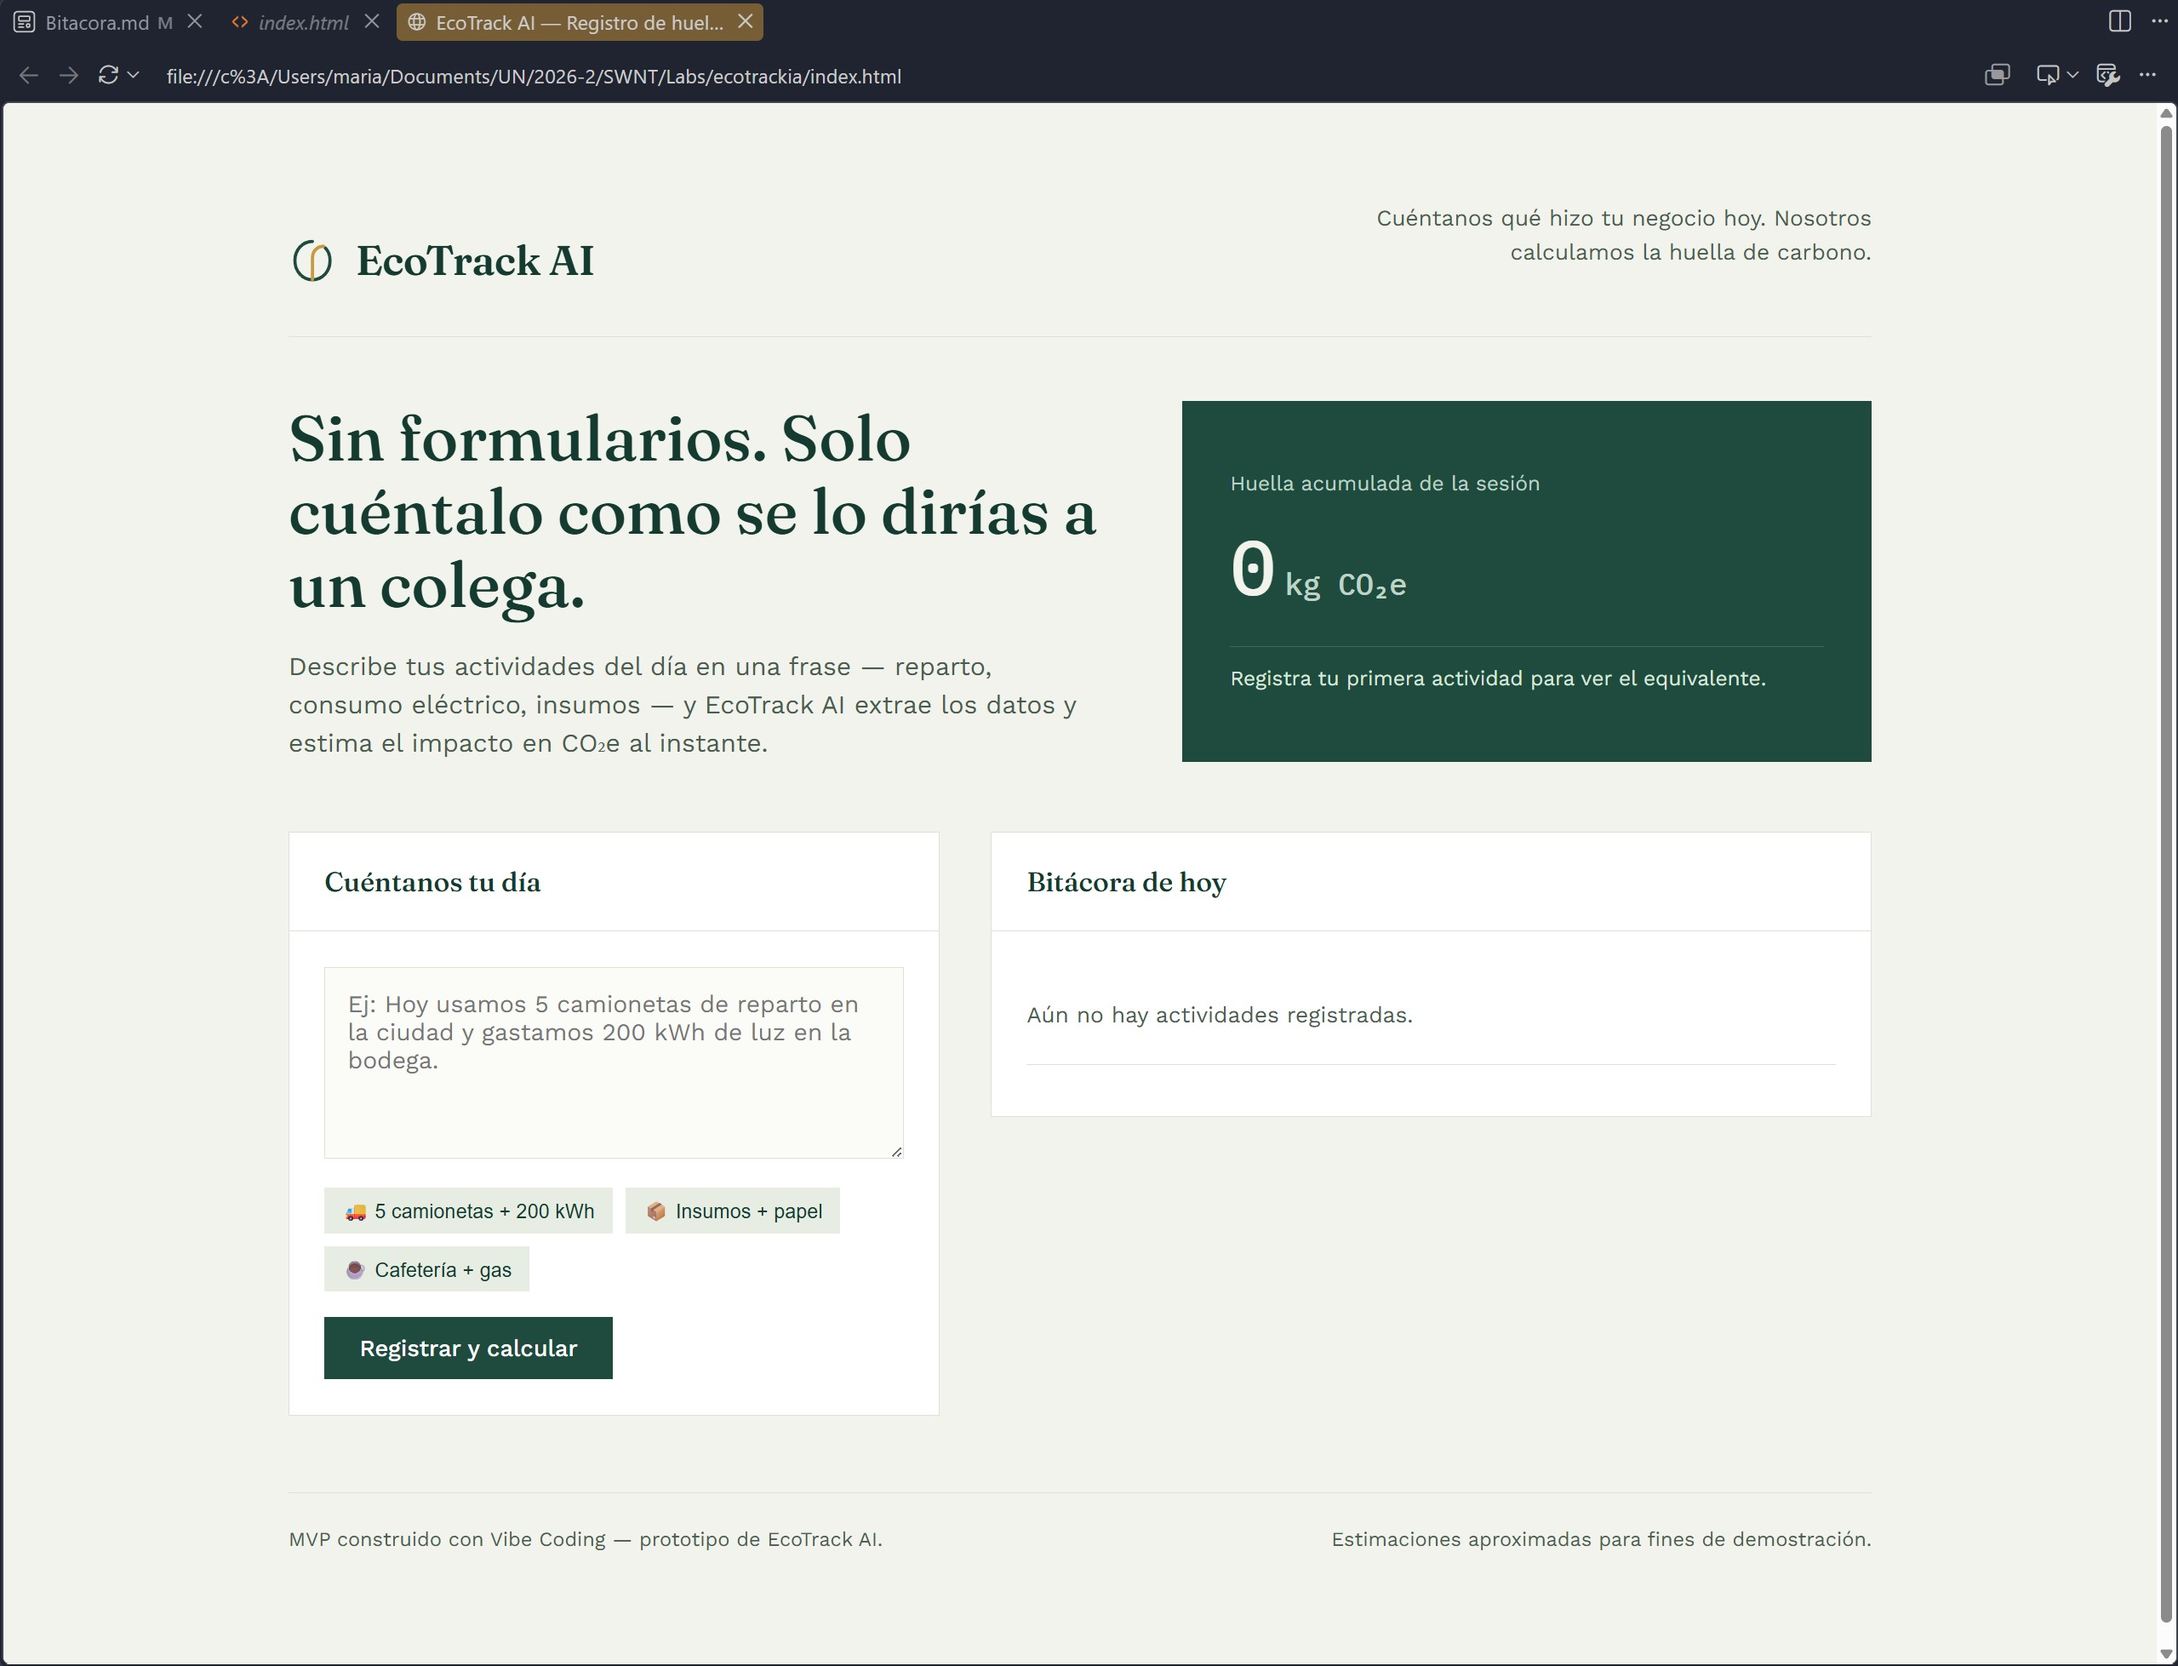
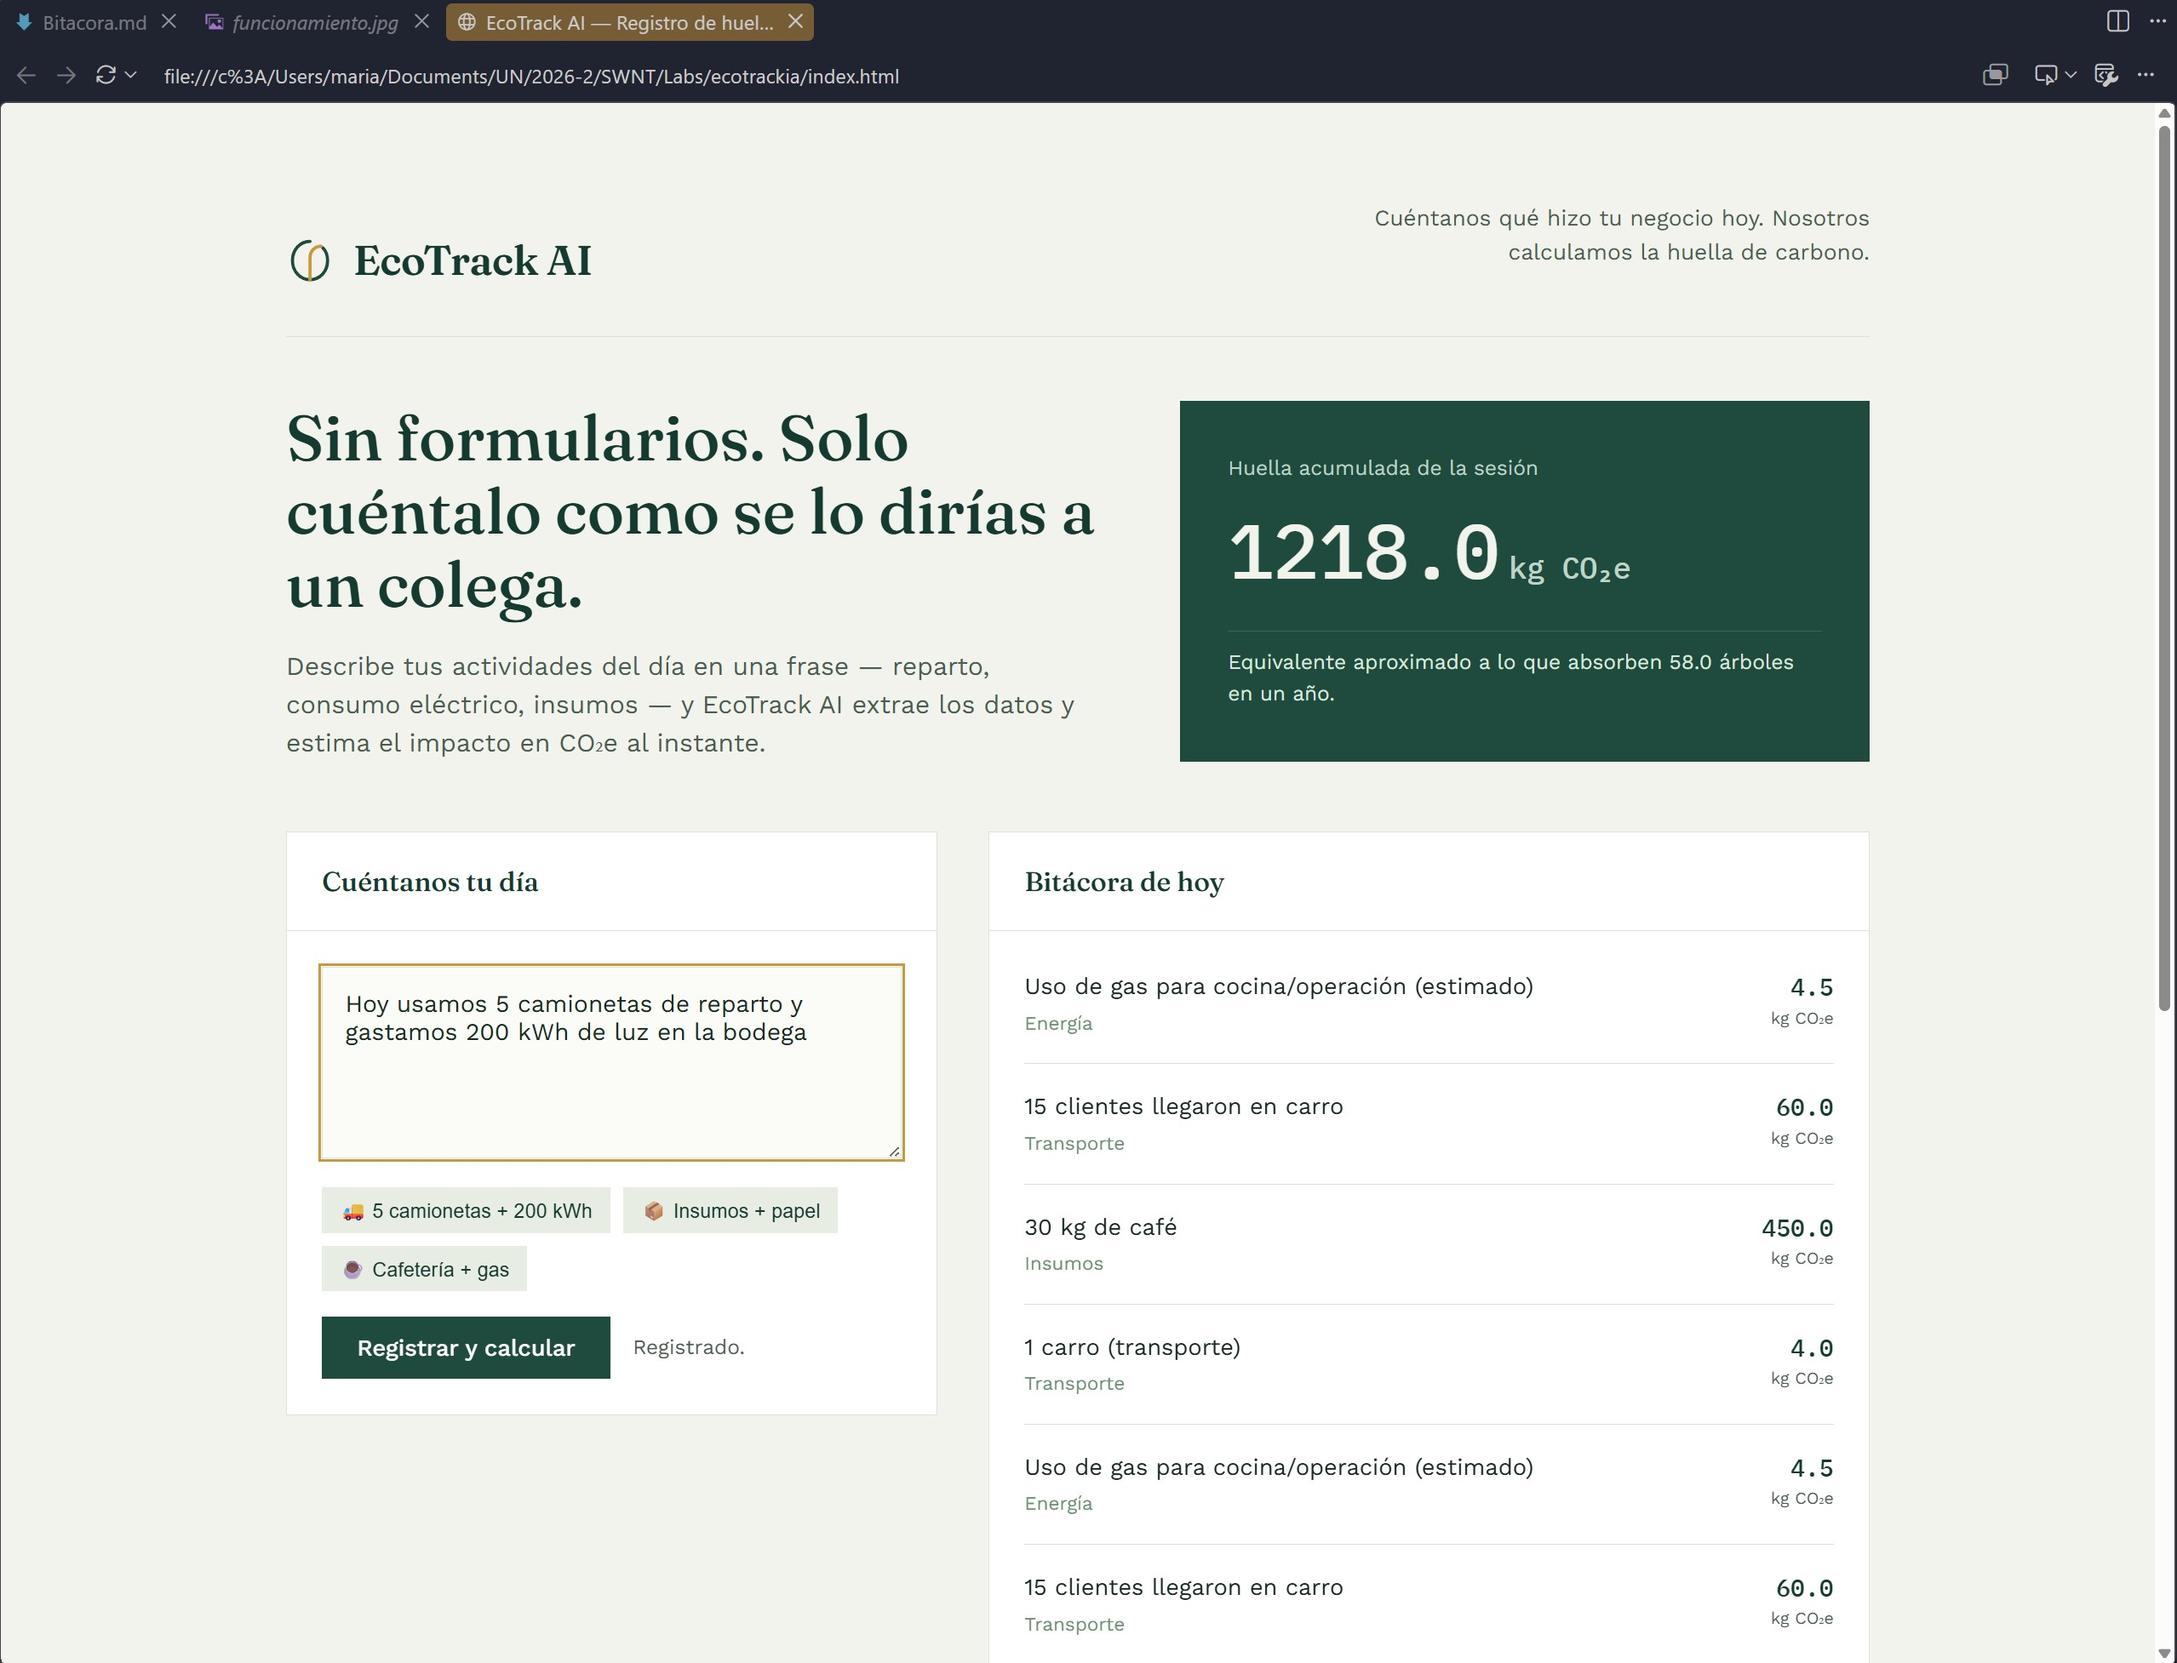
Refactor code structure for improved readability and maintainability

diff --git a/Bitacora.md b/Bitacora.md
@@ -4,7 +4,7 @@
 
 **Proyecto:** MVP de cálculo de huella de carbono para pequeños negocios
 
-**Herramientas usadas:** Cursor
+**Herramientas usadas:** Bolt
 
 ---
 
@@ -24,7 +24,7 @@
 
 ## 2. Master Prompt
 
-Este fue el prompt inicial usado para dirigir a la herramienta de generación de código (Cursor) hacia la visión completa del producto:
+Este fue el prompt inicial usado para dirigir a la herramienta de generación de código (Bolt) hacia la visión completa del producto:
 
 ```
 Actúa como un desarrollador frontend senior especializado en productos de sostenibilidad.
@@ -101,9 +101,11 @@ Esto resuelve el problema real del enunciado: el negocio no llena un formulario 
 
 Esto ilustra el patrón real de debugging en vibe coding: describir el síntoma observado (no la solución) y dejar que la IA proponga el mecanismo, mientras el desarrollador dirige *qué* problema resolver y valida el resultado.
 
-**Problema 1:** al probar el archivo local, la consola mostró `API respondió 401` y la interfaz no se presentaba.
+**Problema 1:** al probar el archivo local, la llamada `fetch()` a la API respondió `401` por falta de credenciales. La página no se navegó fuera de EcoTrack: el error quedó registrado en la consola y el `catch` activó el motor local de respaldo.
 
-  ![Página con error HTTP 401](assets/api400.jpg)
+  ![Fallback local funcionando después del error 401](assets/api401.jpg)
+
+  ![Fallback local funcionando después del error 401](assets/api401_2.jpg)
 
 
 **Segundo desafío (encontrado al desplegar):** al subir el archivo a GitHub Pages, la aplicación cargaba pero la funcionalidad de IA fallaba silenciosamente. La causa: la llamada a la API de Claude usada durante el desarrollo funciona sin configuración adicional *dentro* del entorno de artifacts de Claude.ai (la petición va autenticada automáticamente), pero al ejecutarse en un hosting estático externo, el navegador hace esa misma petición sin credenciales y la API la rechaza.
